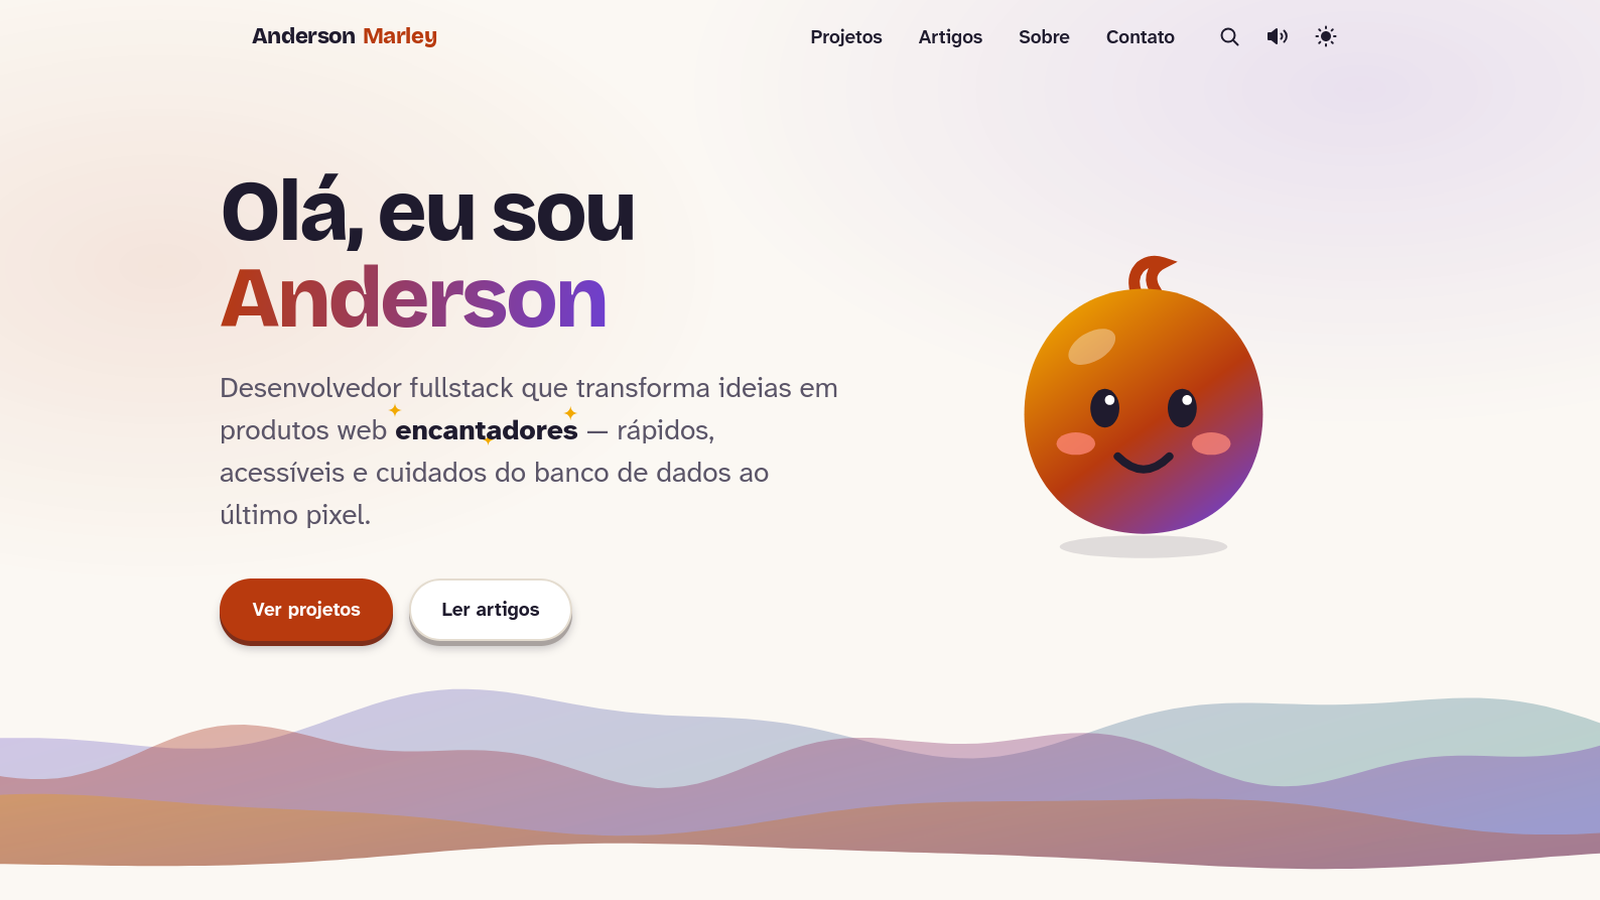
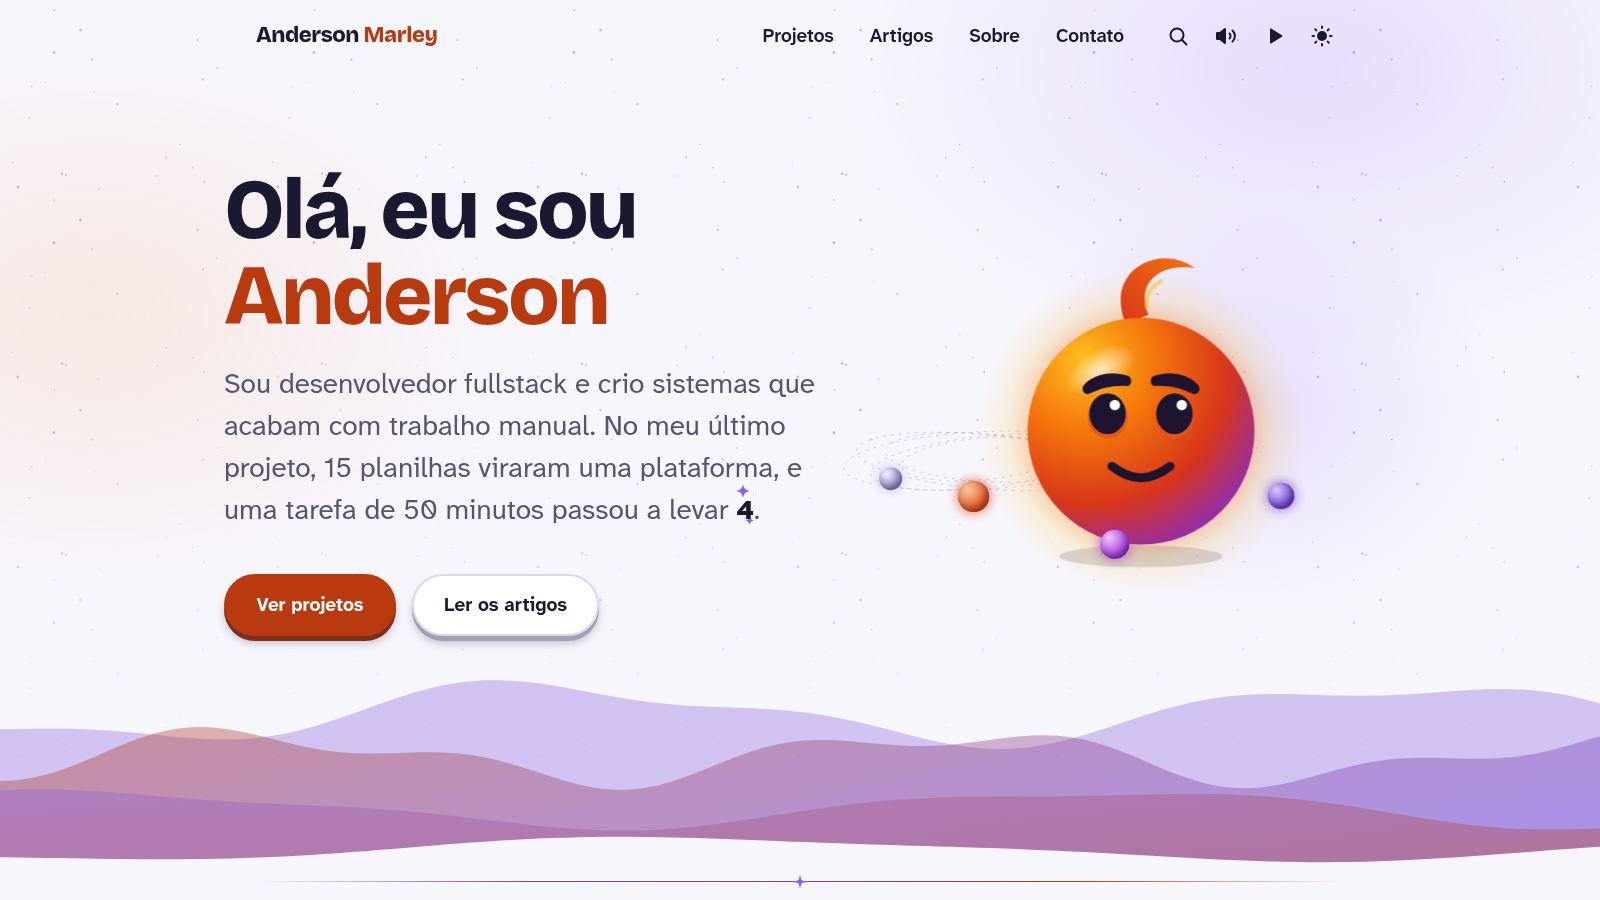
WIP Lote 6: textos (hero, site, estudo de caso) e HANDOFF.md para troca de máquina

diff --git a/src/lib/site.ts b/src/lib/site.ts
@@ -1,8 +1,8 @@
 export const site = {
   name: "Anderson Marley",
-  title: "Anderson Marley — Desenvolvedor Fullstack",
+  title: "Anderson Marley · desenvolvedor fullstack",
   description:
-    "Portfólio e blog de Anderson Marley, desenvolvedor fullstack. Artigos sobre web, interfaces e engenharia de produto, e estudos de caso de projetos.",
+    "Anderson Marley, desenvolvedor fullstack que cria sistemas para acabar com trabalho manual. Estudos de caso, como 15 planilhas que viraram uma plataforma.",
   url: process.env.NEXT_PUBLIC_SITE_URL ?? "http://localhost:3000",
   locale: "pt-BR",
   email: "anderson.marley@projetacs.com",
@@ -15,14 +15,15 @@ export const site = {
   } as Partial<Record<"github" | "linkedin" | "x" | "bluesky", string>>,
 } as const;
 
-/** Textos do hero da home. A palavra em `highlight` ganha o efeito de sparkles. */
+/** Textos do hero da home. O trecho em `highlight` ganha o efeito de sparkles. */
 export const hero = {
   name: "Anderson",
-  role: "Desenvolvedor fullstack que",
-  valueProposition: {
-    before: "transforma ideias em produtos web",
-    highlight: "encantadores",
-    after: "— rápidos, acessíveis e cuidados do banco de dados ao último pixel.",
+  /** Também é o título da imagem de compartilhamento. */
+  intro: "Sou desenvolvedor fullstack e crio sistemas que acabam com trabalho manual.",
+  proof: {
+    before: "No meu último projeto, 15 planilhas viraram uma plataforma, e uma tarefa de 50 minutos passou a levar",
+    highlight: "4",
+    after: ".",
   },
   avatarAlt: "Ilustração de Anderson Marley sorrindo",
 } as const;

diff --git a/src/components/Hero/Hero.tsx b/src/components/Hero/Hero.tsx
@@ -8,7 +8,7 @@ import { HeroWaves } from "./HeroWaves";
 import styles from "./Hero.module.css";
 
 export function Hero() {
-  const { before, highlight, after } = hero.valueProposition;
+  const { before, highlight, after } = hero.proof;
 
   return (
     <section className={styles.hero} aria-labelledby="hero-title">
@@ -19,16 +19,17 @@ export function Hero() {
             Olá, eu sou <span className={styles.name}>{hero.name}</span>
           </h1>
           <p className={styles.subtitle}>
-            {hero.role} {before}{" "}
+            {/* Espaço não separável: o destaque nunca fica sozinho na última linha. */}
+            {hero.intro} {before}{"\u00a0"}
             <Sparkles>
               <strong className={styles.highlight}>{highlight}</strong>
-            </Sparkles>{" "}
+            </Sparkles>
             {after}
           </p>
           <div className={styles.actions}>
             <PushButton href="/projetos">Ver projetos</PushButton>
             <PushButton href="/artigos" variant="secondary">
-              Ler artigos
+              Ler os artigos
             </PushButton>
           </div>
         </div>

diff --git a/src/lib/forms.ts b/src/lib/forms.ts
@@ -30,14 +30,14 @@ export const CONTACT_TOPICS = {
 } as const;
 
 export const contactSchema = z.object({
-  name: z.string().check(z.trim(), z.minLength(2, "Conte como devo te chamar."), z.maxLength(80, "Use até 80 caracteres.")),
+  name: z.string().check(z.trim(), z.minLength(2, "Escreva seu nome (pelo menos 2 letras)."), z.maxLength(80, "Use até 80 caracteres.")),
   email,
   topic: z.enum(Object.keys(CONTACT_TOPICS) as [keyof typeof CONTACT_TOPICS], {
     error: "Escolha um assunto.",
   }),
   message: z.string().check(
     z.trim(),
-    z.minLength(20, "Escreva pelo menos 20 caracteres."),
+    z.minLength(20, "Escreva uma mensagem (pelo menos 20 caracteres)."),
     z.maxLength(5000, "Use até 5.000 caracteres."),
   ),
 });

diff --git a/src/app/artigos/page.tsx b/src/app/artigos/page.tsx
@@ -4,11 +4,12 @@ import { CategoryNav } from "@/components/CategoryNav/CategoryNav";
 import { PageHeader } from "@/components/PageHeader/PageHeader";
 import { PostCard } from "@/components/PostCard/PostCard";
 import { getAllArticles, getArticleCategories, getHighlights } from "@/lib/content";
+import { site } from "@/lib/site";
 import styles from "../listing.module.css";
 
 export const metadata: Metadata = pageMetadata({
   title: "Artigos",
-  description: "Artigos sobre desenvolvimento web, interfaces e engenharia de produto.",
+  description: `Artigos de ${site.name} sobre desenvolvimento web, interfaces e engenharia de produto, com código comentado e o porquê de cada decisão técnica.`,
   path: "/artigos",
 });
 

diff --git a/src/app/actions/newsletter.ts b/src/app/actions/newsletter.ts
@@ -27,7 +27,7 @@ export async function subscribeToNewsletter(_: NewsletterState, formData: FormDa
   try {
     const refund = await allowSubmission("newsletter", 5, 60 * 60);
     if (!refund) {
-      return { status: "error", message: "Muitas tentativas. Tente de novo mais tarde.", values };
+      return { status: "error", message: "Muitas tentativas. Tente de novo daqui a uma hora.", values };
     }
     // Por e-mail também: impede usar o formulário para encher a caixa de alguém
     // (trocando de IP). O excedente é ignorado em silêncio.

diff --git a/src/components/LikeButton/LikeButton.tsx b/src/components/LikeButton/LikeButton.tsx
@@ -154,7 +154,7 @@ export function LikeButton({ contentId, noun, max: MAX }: LikeButtonProps) {
       ? "Curtidas indisponíveis no momento"
       : status === "loading" || !state
         ? `Curtir este ${noun}`
-        : `Curtir este ${noun}. ${state.total} ${state.total === 1 ? "curtida" : "curtidas"}; você curtiu ${mine} de ${MAX} vezes.`;
+        : `Curtir este ${noun}. ${state.total} ${state.total === 1 ? "curtida" : "curtidas"}; você deu ${mine} de ${MAX} curtidas.`;
 
   return (
     <div className={styles.wrapper} data-status={status}>

diff --git a/src/app/actions/contact.ts b/src/app/actions/contact.ts
@@ -31,7 +31,7 @@ export async function sendContactMessage(_: ContactState, formData: FormData): P
   try {
     const refund = await allowSubmission("contact", 3, 60 * 60);
     if (!refund) {
-      return { status: "error", message: "Você já enviou várias mensagens. Tente de novo mais tarde.", values };
+      return { status: "error", message: `Você já enviou várias mensagens. Tente de novo daqui a uma hora ou escreva para ${site.email}.`, values };
     }
 
     const { name, email, topic, message } = parsed.data;

diff --git a/src/app/[category]/[slug]/page.tsx b/src/app/[category]/[slug]/page.tsx
@@ -107,7 +107,7 @@ export default async function ArticlePage({ params }: PageProps<"/[category]/[sl
       <footer className={styles.footer}>
         <nav aria-label="Mais artigos" className={styles.footerLinks}>
           <Link href={`/${article.category}`}>← Mais sobre {categoryMeta.label}</Link>
-          <Link href="/artigos">Todos os artigos</Link>
+          <Link href="/artigos">← Todos os artigos</Link>
         </nav>
       </footer>
     </article>

diff --git a/src/app/opengraph-image.tsx b/src/app/opengraph-image.tsx
@@ -7,10 +7,9 @@ export const contentType = "image/png";
 
 /** Imagem padrão de compartilhamento (home e páginas sem imagem própria). */
 export default function Image() {
-  const { before, highlight } = hero.valueProposition;
   return renderOgImage({
     eyebrow: "Portfólio e artigos",
-    title: `${hero.role} ${before} ${highlight}.`,
+    title: hero.intro,
     meta: site.url.replace(/^https?:\/\//, ""),
   });
 }

diff --git a/src/components/Search/Search.tsx b/src/components/Search/Search.tsx
@@ -124,7 +124,7 @@ export function Search() {
     status === "loading"
       ? "Carregando…"
       : status === "error"
-        ? "Não foi possível carregar a busca. Tente de novo mais tarde."
+        ? "Não foi possível carregar a busca. Recarregue a página e tente de novo."
         : search && results.length === 0
           ? `Nada encontrado para “${query}”.`
           : "";

diff --git a/src/app/contato/page.tsx b/src/app/contato/page.tsx
@@ -7,7 +7,7 @@ import styles from "./page.module.css";
 
 export const metadata: Metadata = pageMetadata({
   title: "Contato",
-  description: `Como falar com ${site.name}: formulário, e-mail e redes.`,
+  description: `Fale com ${site.name} sobre um projeto, uma vaga ou só para conversar. Use o formulário, mande um e-mail ou me encontre nas redes.`,
   path: "/contato",
 });
 

diff --git a/src/components/Footer/NewsletterForm.tsx b/src/components/Footer/NewsletterForm.tsx
@@ -77,7 +77,7 @@ export function NewsletterForm() {
         />
         <button type="submit" className={forms.submit} disabled={isPending}>
           {isPending && <span className={forms.spinner} aria-hidden="true" />}
-          {isPending ? "Enviando…" : "Inscrever"}
+          {isPending ? "Enviando…" : "Quero receber"}
         </button>
       </div>
       {error && (
